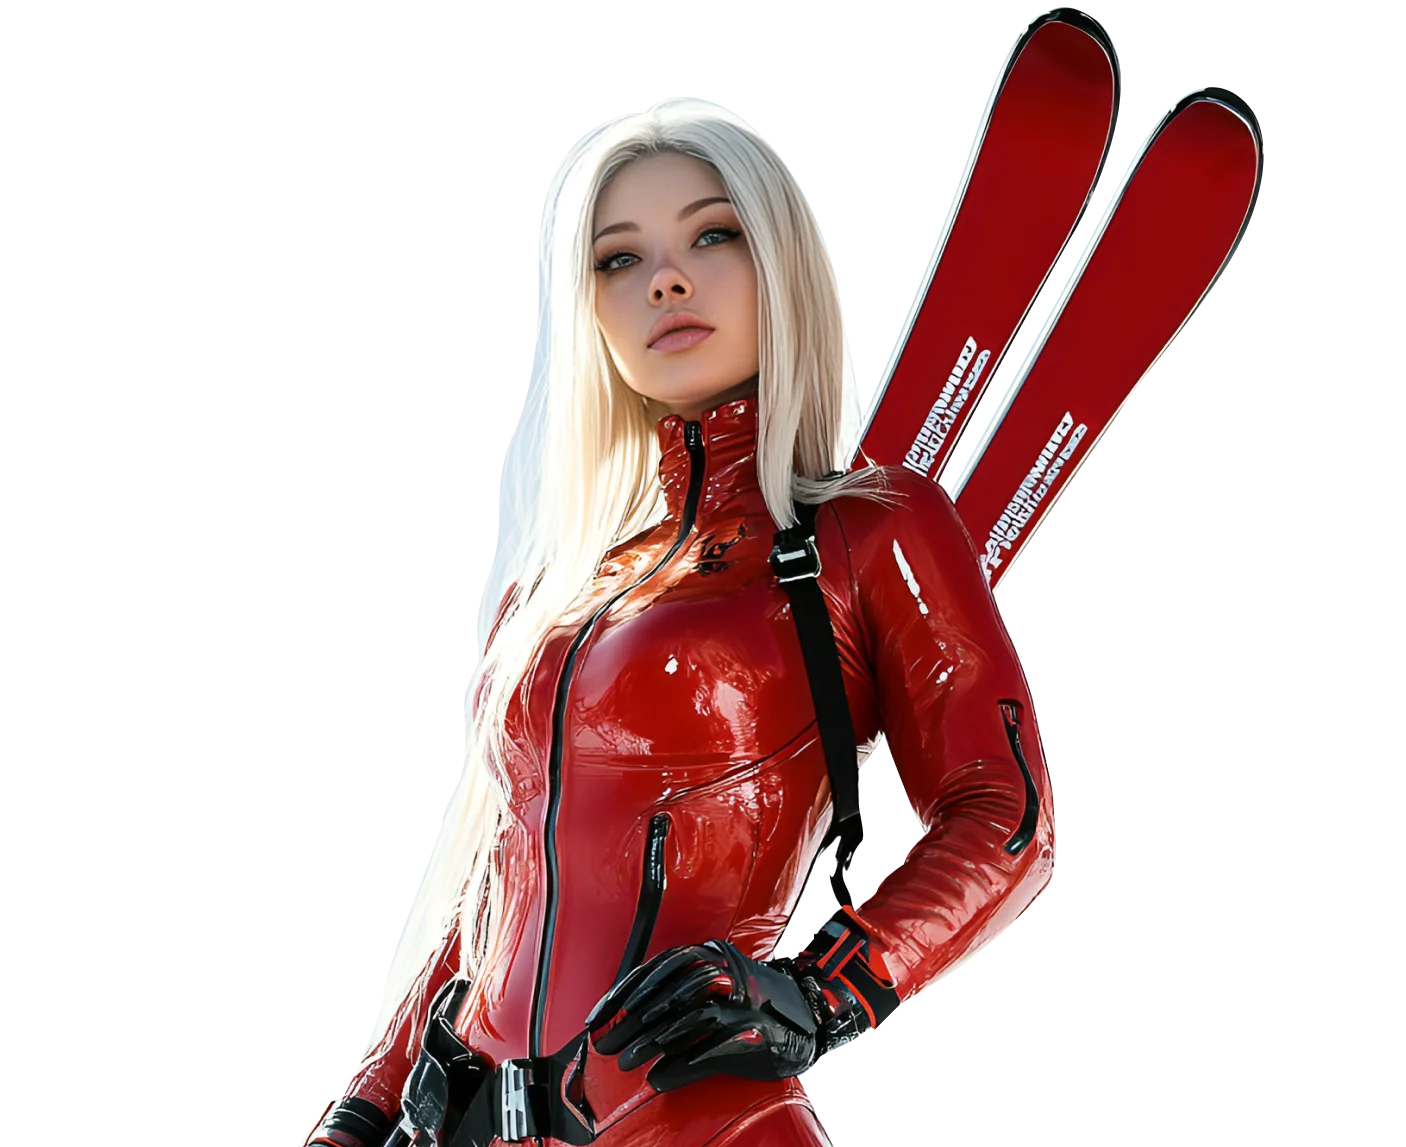
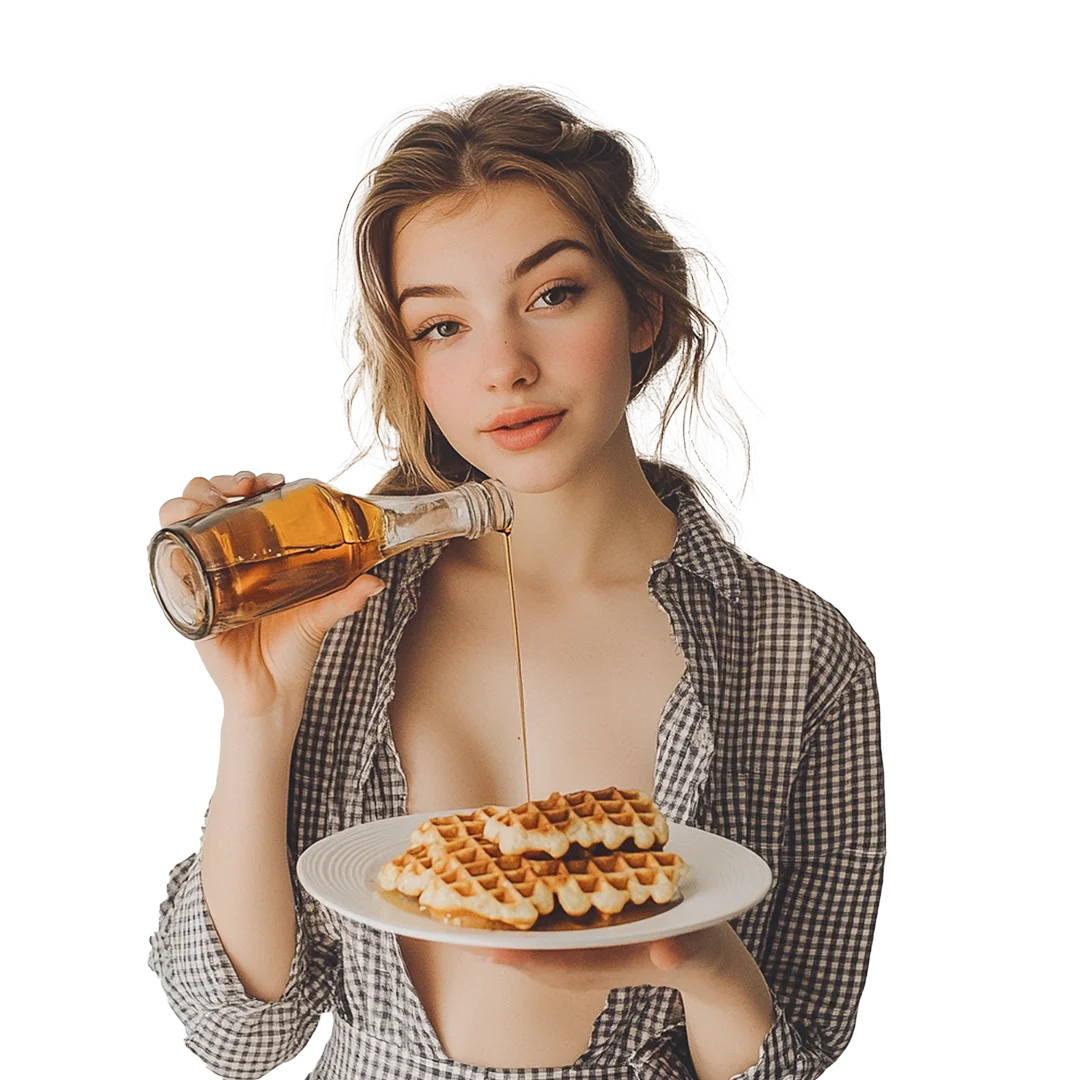
Girl 2 done

diff --git a/index.html b/index.html
@@ -88,7 +88,7 @@
                   alt=""
                 />
                 <img
-                  class="camel-img pointer-events-none fixed -left-[100px] bottom-0 z-[70] w-full max-w-[73%] brightness-[0.7] will-change-transform lg:max-w-[560px] mobile:z-[51] mobile:hidden sm:bottom-0 sm:left-1/2 sm:max-w-[87%] sm:-translate-x-1/2 big-laptop:max-w-[70%]"
+                  class="camel-img pointer-events-none fixed bottom-0 left-0 z-[70] w-full max-w-[60%] brightness-[0.7] will-change-transform lg:max-w-[560px] mobile:z-[51] mobile:hidden sm:bottom-0 sm:left-1/2 sm:max-w-[87%] sm:-translate-x-1/2 big-laptop:max-w-[70%]"
                   src="./img/girl.webp"
                   alt="Deer image"
                 />
@@ -399,7 +399,7 @@
                     />
                   </div>
                   <img
-                    class="camel-img extra-sm:max-w-[85%] pointer-events-none fixed -bottom-[54px] -left-[105px] z-[60] hidden w-full max-w-[54%] brightness-[0.7] lg:max-w-[560px] mobile:block sm:bottom-0 sm:left-1/2 sm:w-[120%] sm:-translate-x-1/2 big-laptop:max-w-[70%]"
+                    class="camel-img extra-sm:max-w-[85%] pointer-events-none fixed -bottom-[54px] -left-[105px] z-[60] hidden w-full max-w-[54%] brightness-[0.7] lg:max-w-[560px] mobile:block sm:bottom-0 sm:left-1/2 sm:w-[100%] sm:-translate-x-1/2 big-laptop:max-w-[70%]"
                     src="./img/girl.webp"
                     alt="Deer"
                   />
